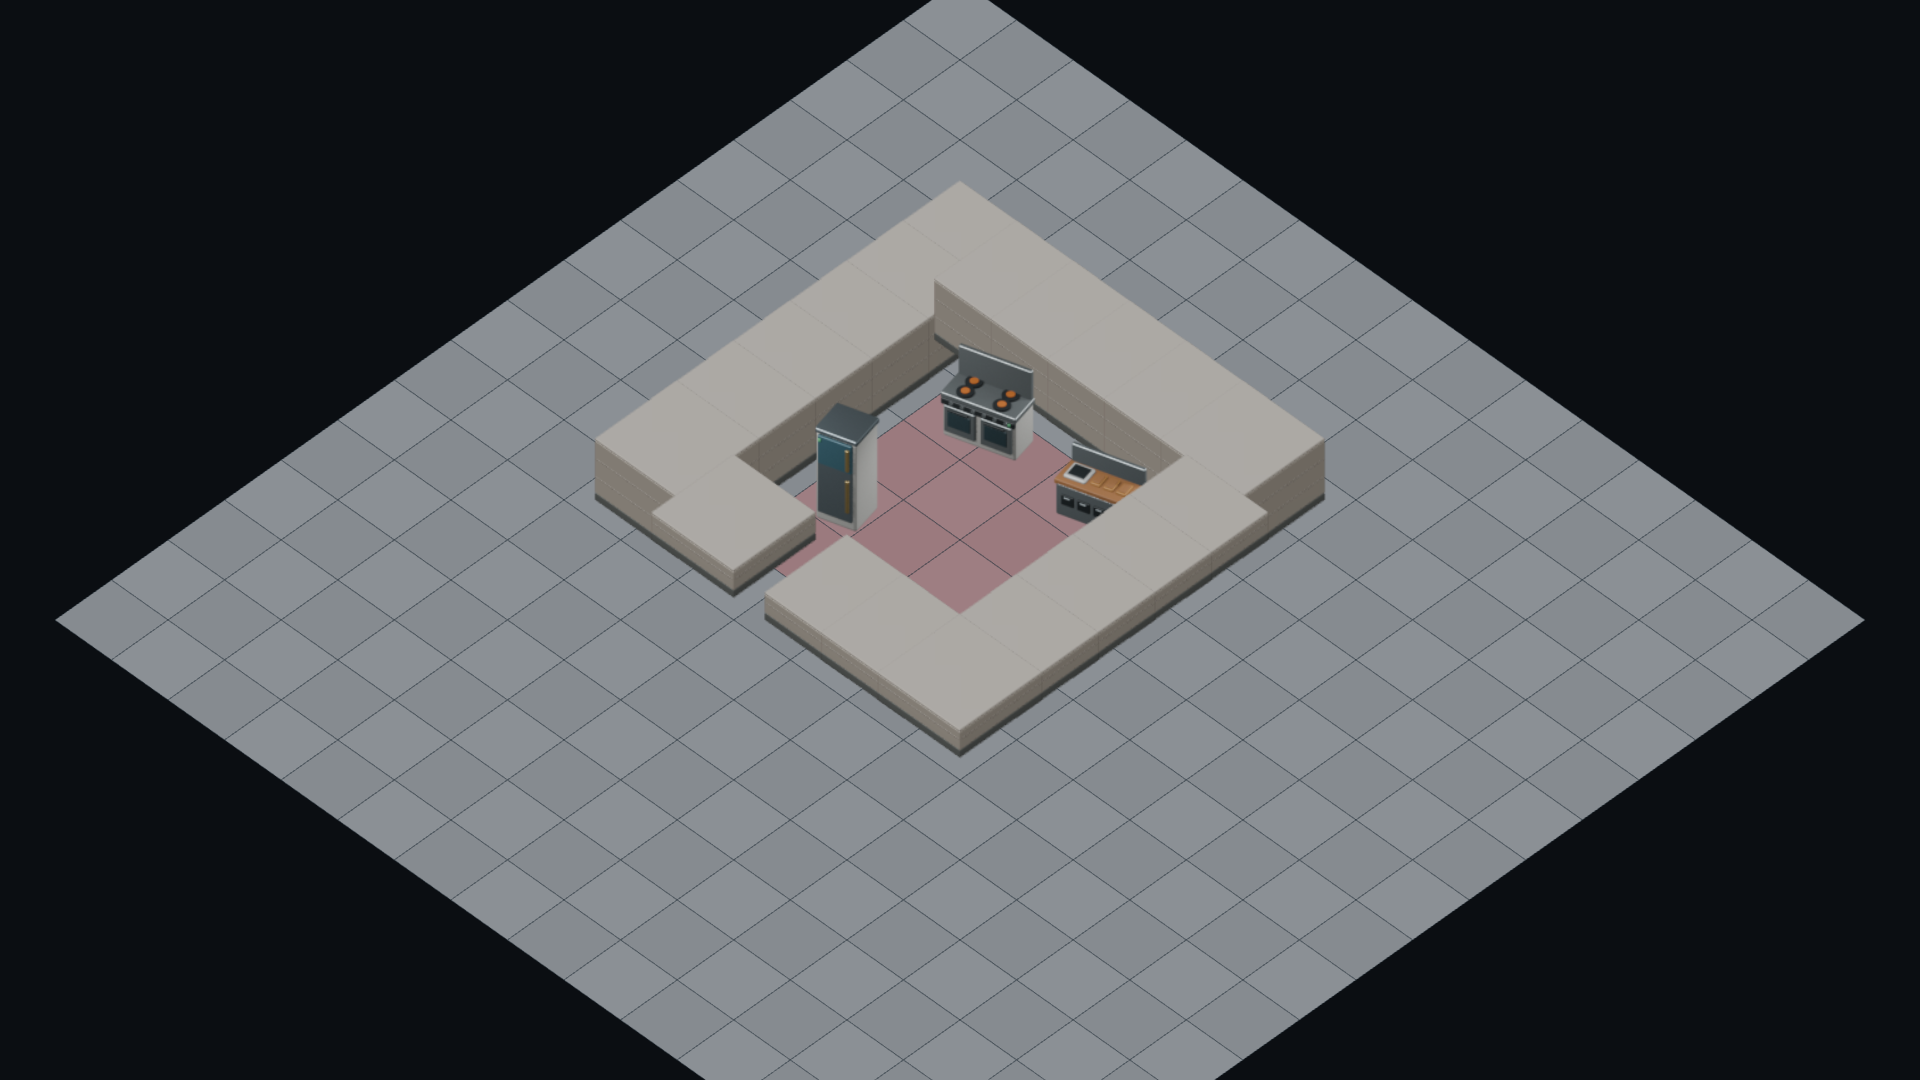
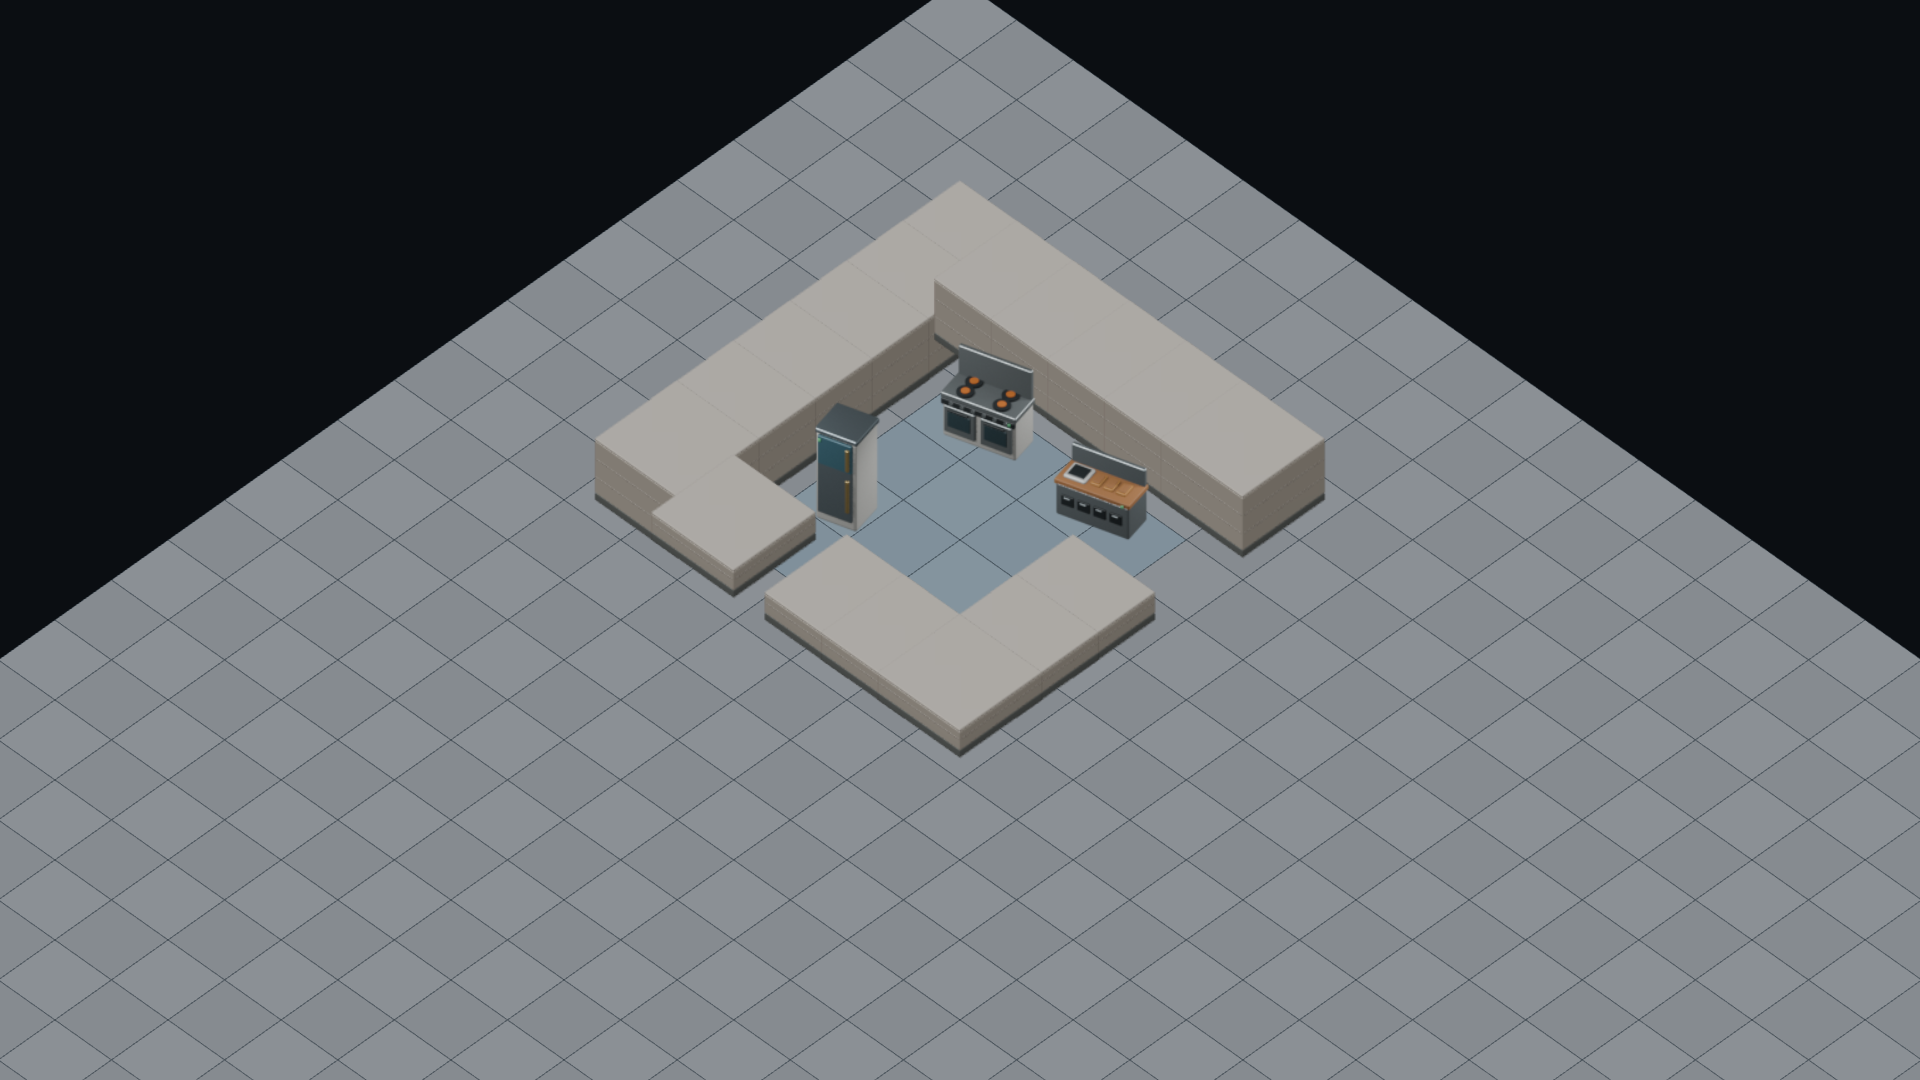
test: validate all room art after cutaway and room zoning fixes

Changed region(s): [[0.625, 0.5806, 1.0, 1.0], [0.0, 0.5806, 0.375, 1.0], [0.4062, 0.3667, 0.6562, 0.5806]]

diff --git a/tests/browser/oblique-preset-art-qa.spec.ts b/tests/browser/oblique-preset-art-qa.spec.ts
@@ -26,14 +26,15 @@ for (const preset of ROOM_TEMPLATE_IDS) {
         window.lockstatePresetArtQA.setPose(yawDegrees, elevationDegrees), [yaw, elevation] as [number, number]);
       await expect.poll(() => page.evaluate(() => {
         const report = window.lockstatePresetArtQA.report();
-        return report.imageCount === report.builtFixtureCount + report.builtWallCount
+        return report.imageCount === report.projectedSolidCount
           && report.expectedTextureKeys.every((key) => report.loadedTextureKeys.includes(key));
       })).toBe(true);
       const report = await page.evaluate(() => window.lockstatePresetArtQA.report());
       expect(report.zoningNumericIds).toEqual(instantiateRoomTemplate(preset, { x: 4, y: 4 }).zones.map((zone) =>
         defaultRoomContentRegistry.getById(zone.roomId)!.numericId));
       expect(report.missingAssetIds).toEqual([]);
-      expect(report.imageCount).toBe(report.builtFixtureCount + report.builtWallCount);
+      expect(report.projectedFixtureCount).toBe(report.builtFixtureCount);
+      expect(report.imageCount).toBe(report.projectedSolidCount);
       expect(report.fallbackCommands).toBe(0);
       for (const key of report.expectedTextureKeys) expect(report.loadedTextureKeys).toContain(key);
       if ((yaw === 45 && ['classroom-basic', 'kitchen-basic', 'infirmary-basic', 'laundry-basic'].includes(preset))

diff --git a/tests/browser/oblique-preset-art-qa.ts b/tests/browser/oblique-preset-art-qa.ts
@@ -86,6 +86,8 @@ interface Report {
   readonly zoningNumericIds: readonly number[];
   readonly builtFixtureCount: number;
   readonly builtWallCount: number;
+  readonly projectedFixtureCount: number;
+  readonly projectedSolidCount: number;
   readonly projectedAssetIds: readonly string[];
   readonly missingAssetIds: readonly string[];
   readonly loadedTextureKeys: readonly string[];
@@ -123,6 +125,8 @@ window.lockstatePresetArtQA = {
       preset,
       zoningNumericIds: plan.zones.map((zone) => world.getZoning({ x: tileCoordinate(zone.x), y: tileCoordinate(zone.y) })),
       builtFixtureCount: structures.length, builtWallCount: plan.wallSquares.length,
+      projectedFixtureCount: solids.filter((item) => String(item.id).startsWith('fixture-')).length,
+      projectedSolidCount: solids.length,
       projectedAssetIds: [...new Set(assetIds)].sort(),
       missingAssetIds: solids.filter((item) => item.assetId === undefined || !catalogs.has(item.assetId)).map((item) => String(item.id)),
       loadedTextureKeys: [...privateScene.assetTextureKeys.values()].sort(),

diff --git a/docs/research/2026-10-01-oblique-preset-art/README.md b/docs/research/2026-10-01-oblique-preset-art/README.md
@@ -1,6 +1,6 @@
 # Oblique room preset art integration, 2026-10-01
 
-This checkpoint exercises four built room plans through the actual `ObliqueWorldScene` and the current Blender module registry at 1920×1080. The browser harness instantiates each plan's square walls, zoning, and fixtures. It does not simulate workers constructing the plans or the production Build dialog.
+This checkpoint exercises all 20 built room plans through the actual `ObliqueWorldScene` and the current Blender module registry at 1920×1080. The browser harness instantiates each plan's square walls, room-specific numeric zoning, and fixtures. It does not simulate workers constructing the plans or the production Build dialog.
 
 | Plan | 45° yaw, 45° elevation | Additional view |
 | --- | --- | --- |
@@ -9,8 +9,8 @@ This checkpoint exercises four built room plans through the actual `ObliqueWorld
 | Infirmary | [Screenshot](infirmary-basic-fullhd-yaw45-elev45.png) | 135°/65° and −45°/25° checked |
 | Laundry | [Screenshot](laundry-basic-fullhd-yaw45-elev45.png) | 135°/65° and −45°/25° checked |
 
-The four browser cases pass at all three poses. At each pose they require every projected built wall and fixture to have a loaded catalog frame, require the number of textured images to match the number of built solids, and require zero fallback draw commands. The selected frame is checked against the catalog's nearest authored yaw and elevation, since some models use 30°/40° steps.
+The 20 browser cases plus a catalog coverage guard pass. Across these plans, the catalog includes 19 distinct fixture types. Every plan is checked at all three poses. At each pose the test requires every projected wall and fixture to have a loaded catalog frame, requires the number of textured images to match the number of projected solids, verifies every built fixture remains projected, and requires zero fallback draw commands. Cutaway may hide walls that obstruct fixtures. The test also compares the world's actual zoning numeric IDs against the room content registry. The selected frame is checked against the catalog's nearest authored yaw and elevation, since some models use 30°/40° steps.
 
-Visual inspection confirms distinct desks and shelving, kitchen appliances and sink, infirmary beds, and laundry machines. Full rear walls and reduced foreground walls follow the room zoning. The foreground walls still hide portions of low fixtures in these small rooms, especially the right laundry machine and kitchen sink. Their PNG frames load correctly; further cutaway and depth tuning is needed to make all fixtures easy to read at every angle. The square wall shapes are currently plain and repetitive. These screenshots prove asset integration, not visual completion of the game or release readiness.
+Visual inspection confirms distinct desks and shelving, kitchen appliances and sink, infirmary beds, and laundry machines. Full rear walls and reduced foreground walls follow the room zoning. The cutaway rule from `7858861415` hides the two foreground squares that formerly covered the sink and right washing machine at 45° yaw; both fixtures are now fully visible in the saved screenshots. The square wall shapes are still plain and repetitive. These screenshots prove asset integration and this specific cutaway improvement, not visual completion of the game or release readiness.
 
 Reproduce with `tests/browser/oblique-preset-art-qa.spec.ts` (single Playwright worker). The standalone HTML/TypeScript harness is in the same test directory.
